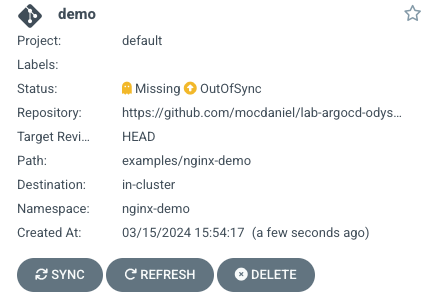
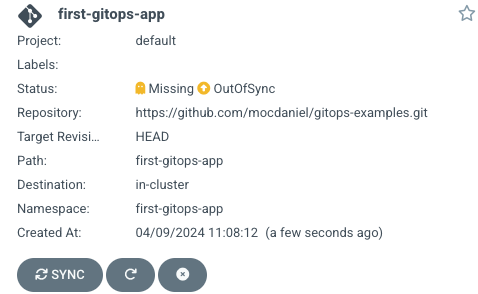
Rework first app installation

diff --git a/educates/workshop/content/07-first-application/index.md b/educates/workshop/content/07-first-application/index.md
@@ -2,22 +2,26 @@
 title: Creating Our First Application
 ---
 
-It's time to create our first application!
+We will create our first application using the **ArgoCD UI** - later on we will see examples of using the **ArgoCD CLI** and its **CRDs**.
 
-For starters, we will go with a simple example from [this workshop's GitHub repository](https://github.com/mocdaniel/lab-argocd-odyssey).
+## Creating an Application
 
-## Create an Application
+Click on **New App** in the Applications view and fill in the following details - some of them can be picked from dropdowns in the form.
 
-Go ahead and create a new `Application` from the UI with the following settings:
+**Leave all other settings in their default states.**
 
-| Setting | Value |
-|:--------|:-----:|
-| **Application Name** | demo |
+---
+
+|  |  |
+|:--------|-----:|
+| **Application Name** | first-gitops-app |
 | **Project Name** | default |
 | **Repository URL** | [https://github.com/mocdaniel/lab-argocd-odyssey.git](https://github.com/mocdaniel/lab-argocd-odyssey.git) |
-| **Path** | examples/nginx-demo |
-| **Cluster URL** | in-cluster |
-| **Namespace** | nginx-demo |
+| **Path** | first-gitops-app |
+| **Cluster URL** | https://kubernetes.default.svc |
+| **Namespace** | first-gitops-app |
+
+---
 
 Once we configured our `Application`, we can confirm by clicking **Create** in
 the top.
@@ -29,23 +33,23 @@ The application will appear in ArgoCD's **Applications view**:
 It indicates clearly that it is **out of sync** (obviously, since we never
 synced before) and thus resources defined in Git are **missing**.
 
-## Sync an Application
+## Syncing an Application
 
 Sync the application by clicking on **Sync**. After a short moment, the UI
 will update - **the sync failed!😱**.
 
 ![Application in ArgoCD UI - sync failed](failed-demo-application.png)
 
-## Investigate the Error
+## Investigating the Error
 
 1. Navigate to the **Application Details view** by
 clicking the Application tile.
 2. Click on **Sync failed** to display details of the last sync attempt
-3. Find the culprit - we try to deploy to a **non-existing** namespace!
+3. Find the culprit - **we tried to deploy to a non-existing namespace!**
 
 ![Details of a failed sync attempt in ArgoCD UI](failed-sync-details.png)
 
-## Sync with Sync Options
+## Syncing with Sync Options
 
 This is not a problem though - ArgoCD can create namespaces for us on demand:
 
@@ -53,5 +57,4 @@ This is not a problem though - ArgoCD can create namespaces for us on demand:
 2. Tick the box **Auto-create Namespace**
 3. Confirm by clicking on **Synchronize**
 
-After a few seconds, all resources should display a green tick - we successfully
-deployed our first `Application` using ArgoCD! 🥳
+After a few seconds, *most* resources should display a green tick - the sync is still failing, though. 😐

diff --git a/educates/workshop/content/06-bootstrap-gitops-repo/index.md b/educates/workshop/content/06-bootstrap-gitops-repo/index.md
@@ -49,6 +49,7 @@ file: ~/gitops-examples/README.md
 ```
 
 The repository contains **multiple directories** with Kubernetes manifests to be consumed by ArgoCD.
+
 Notably, there seems to be a **first GitOps application** example in `first-gitops-app/`:
 
 ```terminal:execute
@@ -57,3 +58,5 @@ title: List the contents of first-gitops-app/
 command: |
   ls -l ~/gitops-examples/first-gitops-app/
 ```
+
+**Let's go on and deploy this application via ArgoCD!**
